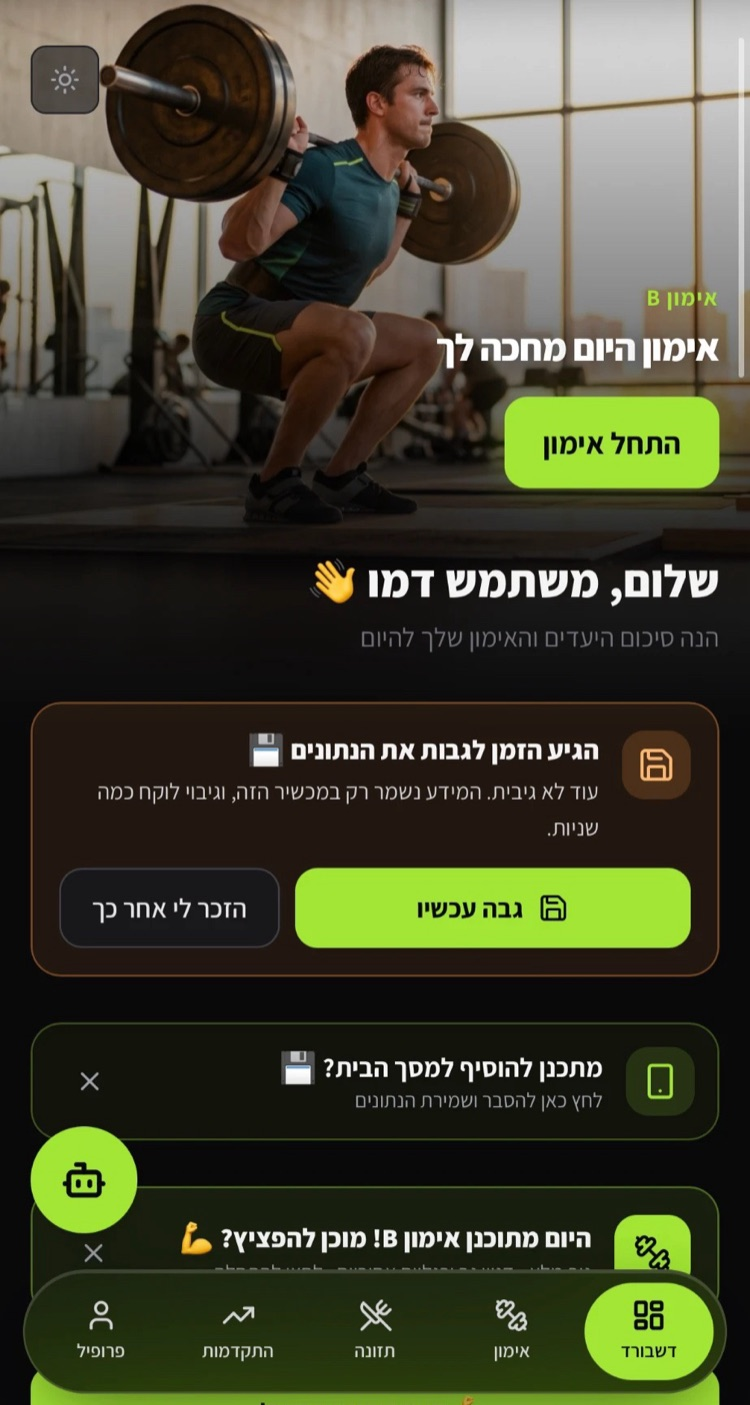
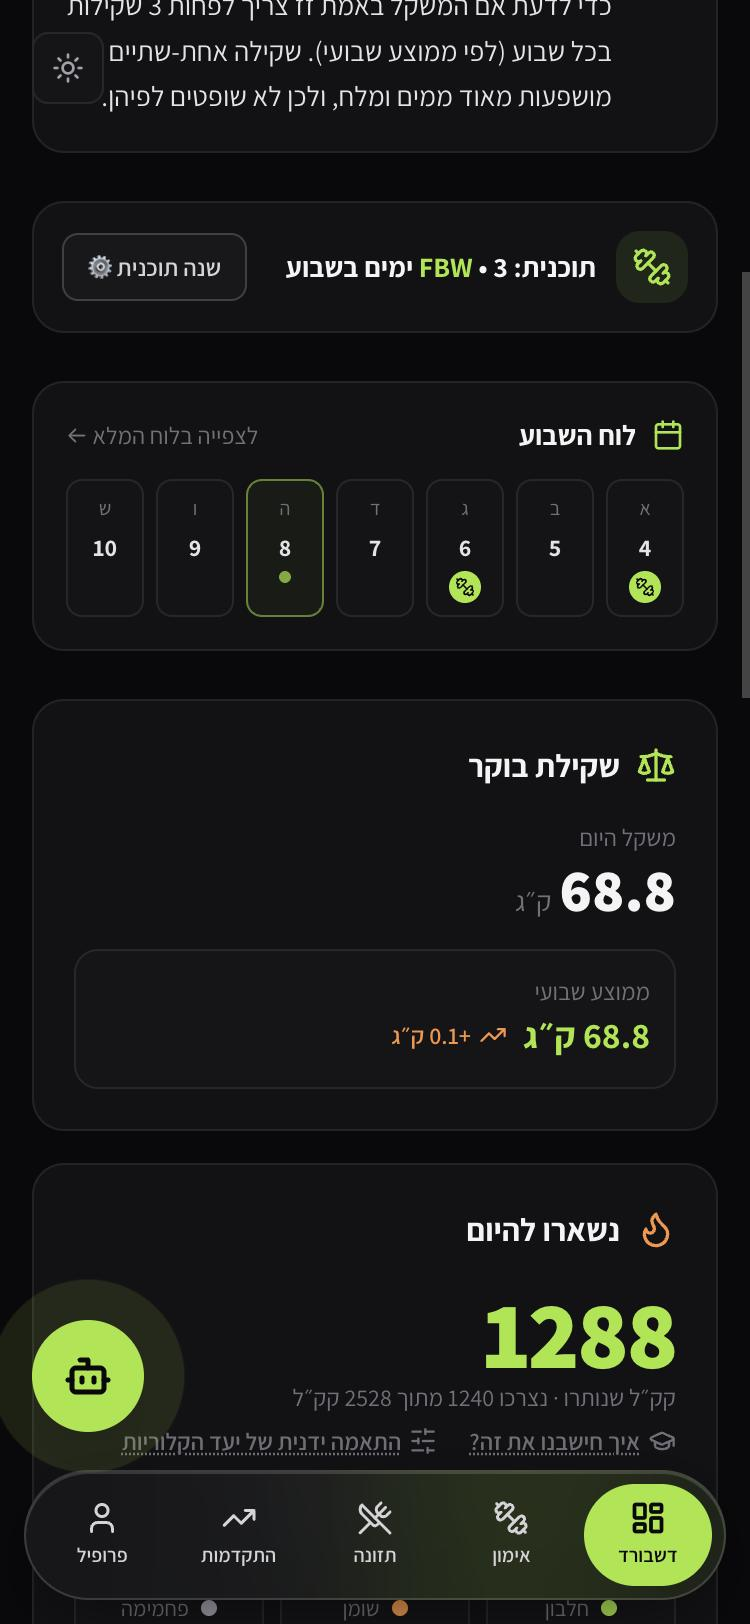
Offer to update the profile weight from the weekly averages; refresh README screenshots
Two weekly averages in a row about 2 kg (or 3%) from the profile weight trigger a card that
previews the new calorie target; it never updates silently. README screenshots are retaken on
the demo user and gain target weight, the manual calorie experiment and automatic backups.

diff --git a/src/components/ProfileWeightSyncCard.tsx b/src/components/ProfileWeightSyncCard.tsx
@@ -1,0 +1,73 @@
+import { useMemo, useState } from 'react';
+import { Scale } from 'lucide-react';
+import type { NutritionPlan, UserMetrics, WeightLog } from '../types/fitness';
+import { calculateNutritionPlan } from '../utils/calculations';
+import { WEIGHT_SYNC_SNOOZE_DAYS, getWeightSyncSuggestion } from '../utils/profileWeightSync';
+import { daysBetween } from '../utils/weightCalculations';
+import { useToday } from '../hooks/useToday';
+
+const SNOOZE_KEY = 'macrolift-weight-sync-snoozed';
+
+function readSnoozed(): string | null {
+  try {
+    return localStorage.getItem(SNOOZE_KEY);
+  } catch {
+    return null;
+  }
+}
+
+interface ProfileWeightSyncCardProps {
+  metrics: UserMetrics;
+  weightLogs: WeightLog[];
+  nutritionPlan: NutritionPlan;
+  /** Sets the profile weight; the calorie target, macros and everything built on them are recalculated. */
+  onApply: (weightKg: number) => void;
+}
+
+/** Offers to bring the profile weight in line with the weekly averages when they have moved a few kilos away from it. */
+export default function ProfileWeightSyncCard({ metrics, weightLogs, nutritionPlan, onApply }: ProfileWeightSyncCardProps) {
+  const today = useToday();
+  const [snoozedOn, setSnoozedOn] = useState(readSnoozed);
+  const suggestion = useMemo(() => getWeightSyncSuggestion({ metrics, weightLogs, today }), [metrics, weightLogs, today]);
+  const preview = useMemo(
+    () => (suggestion ? calculateNutritionPlan({ ...metrics, weightKg: suggestion.suggestedKg }) : null),
+    [metrics, suggestion],
+  );
+
+  if (!suggestion || !preview) return null;
+  if (snoozedOn !== null && daysBetween(snoozedOn, today) < WEIGHT_SYNC_SNOOZE_DAYS) return null;
+
+  const deltaKcal = preview.targetCalories - nutritionPlan.targetCalories;
+  const kg = (n: number) => n.toLocaleString('he-IL', { maximumFractionDigits: 1 });
+
+  function snooze() {
+    try {
+      localStorage.setItem(SNOOZE_KEY, today);
+    } catch {
+      // Storage blocked: the suggestion simply shows again next time.
+    }
+    setSnoozedOn(today);
+  }
+
+  return (
+    <div className="glass-card flex flex-col gap-3 p-4 sm:p-5">
+      <div className="flex items-center gap-2">
+        <Scale className="h-4 w-4 text-lime-700 dark:text-lime-400" />
+        <h3 className="font-bold text-zinc-900 dark:text-zinc-100">לעדכן את משקל הפרופיל?</h3>
+      </div>
+      <p className="text-xs leading-relaxed text-zinc-700 dark:text-zinc-300">
+        הממוצע השבועי שלך בשבועיים האחרונים הוא כ-{kg(suggestion.suggestedKg)} ק״ג, והפרופיל עדיין על {kg(suggestion.profileKg)} ק״ג. היעד הקלורי, החלבון והקלוריות מהצעדים
+        מחושבים לפי משקל הפרופיל, אז עדכון יתאים אותם אליך
+        {Math.abs(deltaKcal) >= 5 ? `: היעד ${deltaKcal > 0 ? 'יעלה' : 'ירד'} בכ-${Math.abs(deltaKcal)} קק״ל, ל-${preview.targetCalories.toLocaleString('he-IL')}` : ''}.
+      </p>
+      <div className="flex flex-wrap gap-2">
+        <button type="button" onClick={() => onApply(suggestion.suggestedKg)} className="btn-primary text-xs">
+          עדכון ל-{kg(suggestion.suggestedKg)} ק״ג
+        </button>
+        <button type="button" onClick={snooze} className="btn-secondary text-xs">
+          לא עכשיו
+        </button>
+      </div>
+    </div>
+  );
+}

diff --git a/src/utils/profileWeightSync.ts b/src/utils/profileWeightSync.ts
@@ -1,0 +1,42 @@
+import type { UserMetrics, WeightLog } from '../types/fitness';
+import { buildWeeklySummaries, getWeekStart } from './weightCalculations';
+
+/**
+ * The calorie target, protein and the calories from steps are all computed from the weight in the profile, which is only the weight typed in the
+ * profile. When the weigh-ins settle somewhere else (a bulk of a few kilos), the targets slowly drift from the person. This notices that and offers to
+ * update the profile weight. It never changes it silently: an automatic update every week would move the target every week.
+ */
+
+/** The weekly average has to differ from the profile by this much (kg) or this share of it, whichever is smaller. */
+const MIN_DIFF_KG = 2;
+const MIN_DIFF_SHARE = 0.03;
+/** A week needs this many weigh-ins to count. */
+const MIN_WEEK_LOGS = 2;
+const SNOOZE_DAYS = 14;
+
+export interface WeightSyncSuggestion {
+  /** The average of the latest completed week, rounded to 0.1 kg. */
+  suggestedKg: number;
+  profileKg: number;
+  diffKg: number;
+}
+
+/**
+ * A suggestion when the last two weekly averages (weeks with at least two weigh-ins, the week in progress not counted) both sit at least ~2 kg
+ * (or 3%) away from the profile weight, on the same side. One odd week is noise; two in a row is a real change.
+ */
+export function getWeightSyncSuggestion(params: { metrics: UserMetrics; weightLogs: WeightLog[]; today: string }): WeightSyncSuggestion | null {
+  const { metrics, weightLogs, today } = params;
+  const thisWeek = getWeekStart(today);
+  const weeks = buildWeeklySummaries(weightLogs).filter((w) => w.weekStart < thisWeek && w.daysLogged >= MIN_WEEK_LOGS);
+  if (weeks.length < 2) return null;
+  const [previous, latest] = weeks.slice(-2);
+  const threshold = Math.min(MIN_DIFF_KG, metrics.weightKg * MIN_DIFF_SHARE);
+  const diffs = [previous, latest].map((w) => w.averageKg - metrics.weightKg);
+  const sameSide = diffs.every((d) => d >= threshold) || diffs.every((d) => d <= -threshold);
+  if (!sameSide) return null;
+  const suggestedKg = Math.round(latest.averageKg * 10) / 10;
+  return { suggestedKg, profileKg: metrics.weightKg, diffKg: Math.round((suggestedKg - metrics.weightKg) * 10) / 10 };
+}
+
+export { SNOOZE_DAYS as WEIGHT_SYNC_SNOOZE_DAYS };

diff --git a/src/utils/profileWeightSync.test.ts b/src/utils/profileWeightSync.test.ts
@@ -1,0 +1,31 @@
+import { describe, expect, it } from 'vitest';
+import type { UserMetrics, WeightLog } from '../types/fitness';
+import { getWeightSyncSuggestion } from './profileWeightSync';
+
+const metrics = { weightKg: 69 } as UserMetrics;
+const log = (date: string, weightKg: number): WeightLog => ({ id: date, date, weightKg });
+// Weeks start on Sunday: 9/20, 9/27, 10/4 (the week in progress on 10/8).
+const week = (sunday: string, kg: number) => [log(sunday, kg), log(sunday.replace(/\d\d$/, (d) => String(Number(d) + 2).padStart(2, '0')), kg)];
+
+describe('getWeightSyncSuggestion', () => {
+  it('suggests the latest weekly average once two weeks in a row sit 2 kg or more from the profile weight', () => {
+    const logs = [...week('2026-09-20', 71.2), ...week('2026-09-27', 71.6)];
+    expect(getWeightSyncSuggestion({ metrics, weightLogs: logs, today: '2026-10-08' })).toEqual({ suggestedKg: 71.6, profileKg: 69, diffKg: 2.6 });
+  });
+  it('also works for losing weight', () => {
+    const logs = [...week('2026-09-20', 66.5), ...week('2026-09-27', 66.1)];
+    expect(getWeightSyncSuggestion({ metrics, weightLogs: logs, today: '2026-10-08' })?.diffKg).toBe(-2.9);
+  });
+  it('stays quiet for one odd week, a small drift, or too little data', () => {
+    expect(getWeightSyncSuggestion({ metrics, weightLogs: [...week('2026-09-20', 69.3), ...week('2026-09-27', 71.8)], today: '2026-10-08' })).toBeNull();
+    expect(getWeightSyncSuggestion({ metrics, weightLogs: [...week('2026-09-20', 70.2), ...week('2026-09-27', 70.4)], today: '2026-10-08' })).toBeNull();
+    expect(getWeightSyncSuggestion({ metrics, weightLogs: week('2026-09-27', 72), today: '2026-10-08' })).toBeNull();
+  });
+  it('ignores the week still in progress and weeks with a single weigh-in', () => {
+    const logs = [...week('2026-09-20', 71.2), log('2026-09-28', 72), ...week('2026-10-04', 72)];
+    expect(getWeightSyncSuggestion({ metrics, weightLogs: logs, today: '2026-10-08' })).toBeNull();
+  });
+  it('does not mix an increase with a decrease', () => {
+    expect(getWeightSyncSuggestion({ metrics, weightLogs: [...week('2026-09-20', 66.5), ...week('2026-09-27', 71.5)], today: '2026-10-08' })).toBeNull();
+  });
+});

diff --git a/src/components/Dashboard.tsx b/src/components/Dashboard.tsx
@@ -40,6 +40,7 @@ import CalibrationCard from './CalibrationCard';
 import TargetCheckCard from './TargetCheckCard';
 import WeightTargetCard from './WeightTargetCard';
 import CalorieAdjustControl from './CalorieAdjustControl';
+import ProfileWeightSyncCard from './ProfileWeightSyncCard';
 import { getCurrentWeight, getWeightTargetProgress } from '../utils/weightTarget';
 import { describeCoverage, describeRoom, getOvershootCoverage, type OvershootCoverage } from '../utils/overshoot';
 import { describeStepSurplus, getStepSurplus, type StepSurplus } from '../utils/stepSurplus';
@@ -739,6 +740,13 @@ function DashboardTab({
         completedDates={completedDates}
         onSelectDay={setEditingDay}
         onNavigate={onOpenWorkoutCalendar}
+      />
+
+      <ProfileWeightSyncCard
+        metrics={profile.metrics}
+        weightLogs={weightLogs}
+        nutritionPlan={nutritionPlan}
+        onApply={(weightKg) => onUpdateProfileFull({ weightKg })}
       />
 
       <WeightTargetCard

diff --git a/README.md b/README.md
@@ -29,6 +29,11 @@ Built by a 3rd-year Industrial Engineering & Management student (Information Sys
     <td align="center"><img src="docs/screenshots/05-weight-trend.jpg" width="220" alt="Weight trend"><br><sub><b>Weight trend</b><br>weekly averages instead of daily noise</sub></td>
     <td align="center"><img src="docs/screenshots/06-ai-coach.jpg" width="220" alt="AI coach"><br><sub><b>AI coach</b><br>answers based on your plan and today's intake</sub></td>
   </tr>
+  <tr>
+    <td align="center"><img src="docs/screenshots/07-target-weight.jpg" width="220" alt="Target weight and trend check"><br><sub><b>Target weight</b><br>progress on the weekly average and a time estimate</sub></td>
+    <td align="center"><img src="docs/screenshots/08-manual-calories.jpg" width="220" alt="Manual calorie adjustment"><br><sub><b>Calorie experiment</b><br>nudge the target by hand, then let the trend check judge it</sub></td>
+    <td align="center"><img src="docs/screenshots/09-auto-backup.jpg" width="220" alt="Automatic on-device backups"><br><sub><b>Automatic backups</b><br>daily copies on the device, restore in one tap</sub></td>
+  </tr>
 </table>
 
 ---
@@ -58,6 +63,7 @@ Most tracking apps share the same weaknesses:
 **Nutrition**
 - Personalised targets: BMR by Mifflin-St Jeor (gender-specific), TDEE built from everyday life (1.4 x BMR, the lower bound of the FAO/WHO activity level for free-living adults) + walking beyond 4,000 steps (per step, scaled by body weight) + training, goal-based surplus/deficit and gender-aware macros. The calorie target is a **range**, not one number: because TDEE is an estimate (about 8% either way), a surplus goal starts from the low end and a deficit goal from the high end, so following the app cannot push anyone the wrong way if the estimate is off.
 - **Weight-trend check (no food logging needed):** after two to three weeks of weigh-ins, the weekly average is compared with the pace the goal calls for; when it is clearly off, the app suggests adding or removing 100-300 kcal. The user can accept, change the amount or ignore it, and accepting moves the whole calorie range and macros and restarts the check. If logged food shows the target was simply not followed, it says so instead.
+- **Profile weight stays in step with the scale:** targets, protein and the calories from steps are computed from the profile weight, so when two weekly averages in a row sit about 2 kg (or 3%) away from it the app offers to update it and shows what the target would become. It never changes silently, because an automatic update would move the target every week.
 - **Manual calorie adjustment:** the daily target can be nudged by hand in steps of 50 kcal (up to 600 either way, never below BMR) to try a different amount when the weight is not moving. It moves the whole range, the macros, the weekly budget and the coach's context together, shows the adjustment on every screen that offers it, and restarts the weight-trend check from that day so the app can say whether the change worked.
 - **Personal calibration:** after about four weeks of food logging and weigh-ins, the app measures your real maintenance (average intake minus the energy in the weight change: about 7,700 kcal/kg for weight lost, less for weight gained since part of it is lean tissue) and suggests a correction to the formula, weighting it by how noisy the weight trend is.
 - Food log by meal with per-meal macro summary, editable entries, natural serving units, and day-by-day navigation.
@@ -128,7 +134,7 @@ src/data/         Workout templates, muscle labels and the local food database
 npm test
 ```
 
-335 unit tests (Vitest) cover the logic where a silent mistake would give users wrong numbers, rather than the UI:
+340 unit tests (Vitest) cover the logic where a silent mistake would give users wrong numbers, rather than the UI:
 
 | Area | What is verified |
 | --- | --- |
@@ -140,6 +146,7 @@ npm test
 | Overshoot coverage and step credit (`overshoot`, `stepCredit`) | The week judged as a whole with one signed step credit shared by every calorie card: steps above the goal add, finished days below it subtract, the day in progress only adds, days without step data are skipped; covered by the weekly balance or by steps, the room left and the point where it runs out |
 | Step surplus (`stepSurplus`) | The week's average steps against the average the target assumes: eat more when walking more, less when walking less, in kcal by body weight; quiet without two completed days or when the difference is small; slow days count against fast ones |
 | Target weight (`weightTarget`) | Validation against the goal and BMI, progress on the weekly average, start weight bookkeeping, time estimate from the measured pace or the planned one, reached only after two weeks in a row, a trend moving away, survival through backup restore |
+| Profile weight sync (`profileWeightSync`) | Two weekly averages in a row on the same side of the profile weight before suggesting, quiet for one odd week or small drift, the week in progress and single-weigh-in weeks ignored |
 | Weight-trend check (`targetCheck`) | Waiting for enough weigh-ins, suggesting calories for a flat or too-fast weekly average per goal (bulk, cut), leaving an on-pace trend alone, not acting on a noisy one, telling apart a wrong target from an unfollowed one, applying and cancelling a correction |
 | Calibration (`calibration`) | Measuring maintenance from intake and the weight trend, ignoring partly logged days and out-of-window data, asking for more data instead of guessing, trusting a noisy trend less, capping the correction |
 | Gym programs by experience (`workoutAdaptation`, `programSelection`) | Beginner, intermediate and advanced selections differ where intended, a missing experience is left untouched, every beginner swap is a listed beginner-level option, weekly sets per muscle (and the 12-16 range for the big four) stay identical in every template, no exercise repeats in a session, swaps are revertible, injury swaps win, and the current split never changes the program |
